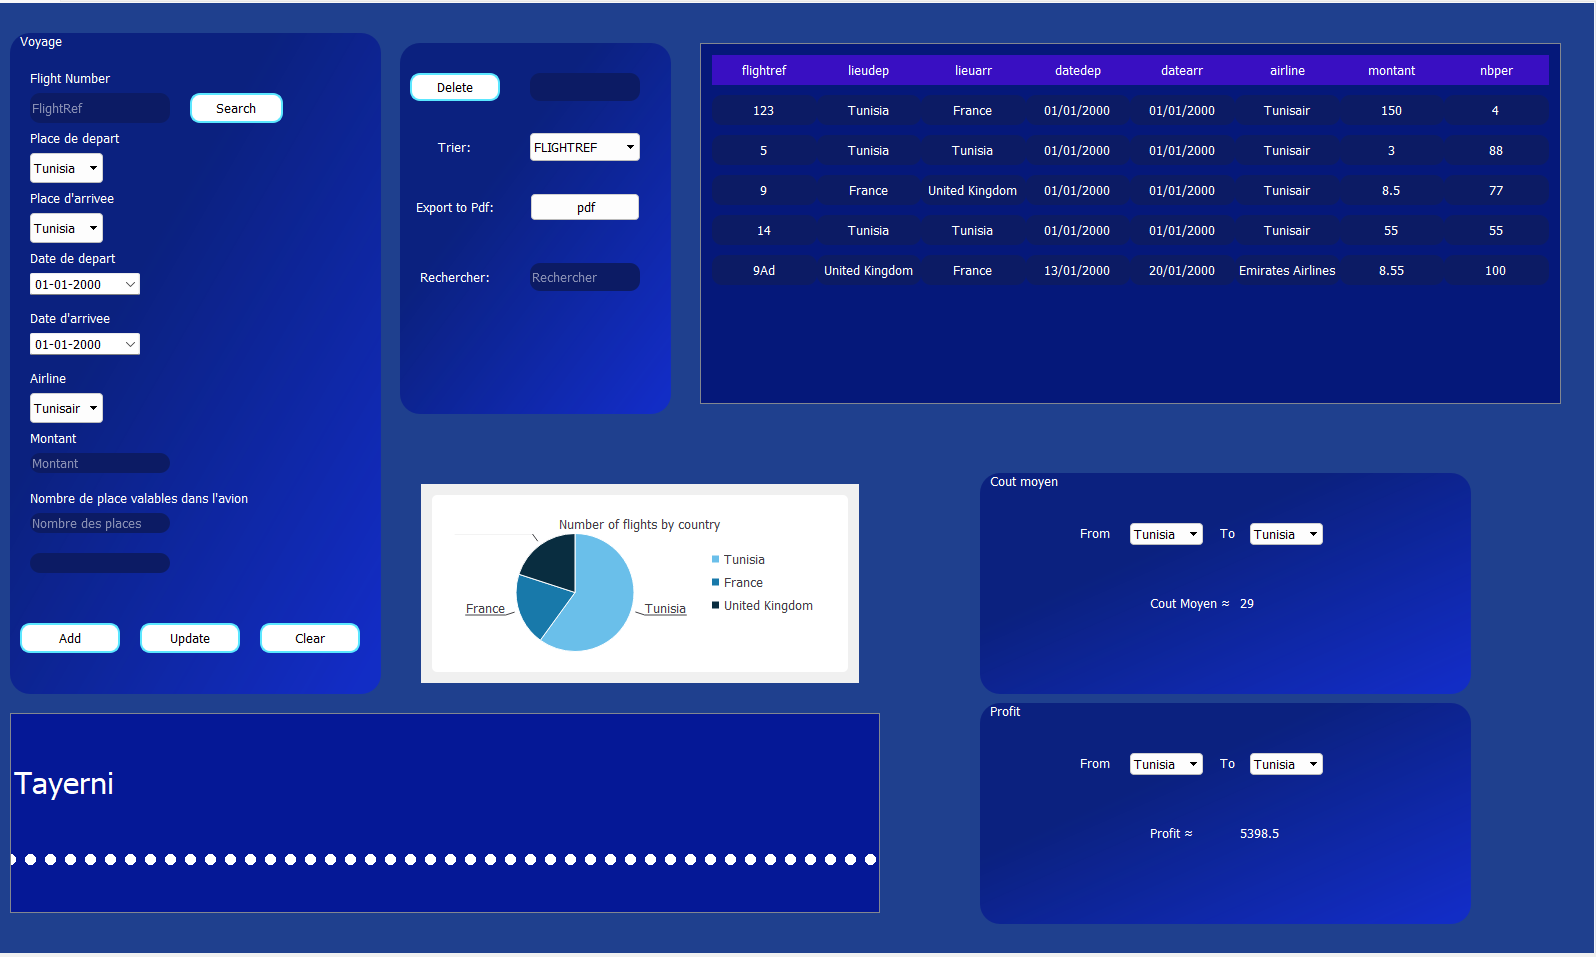
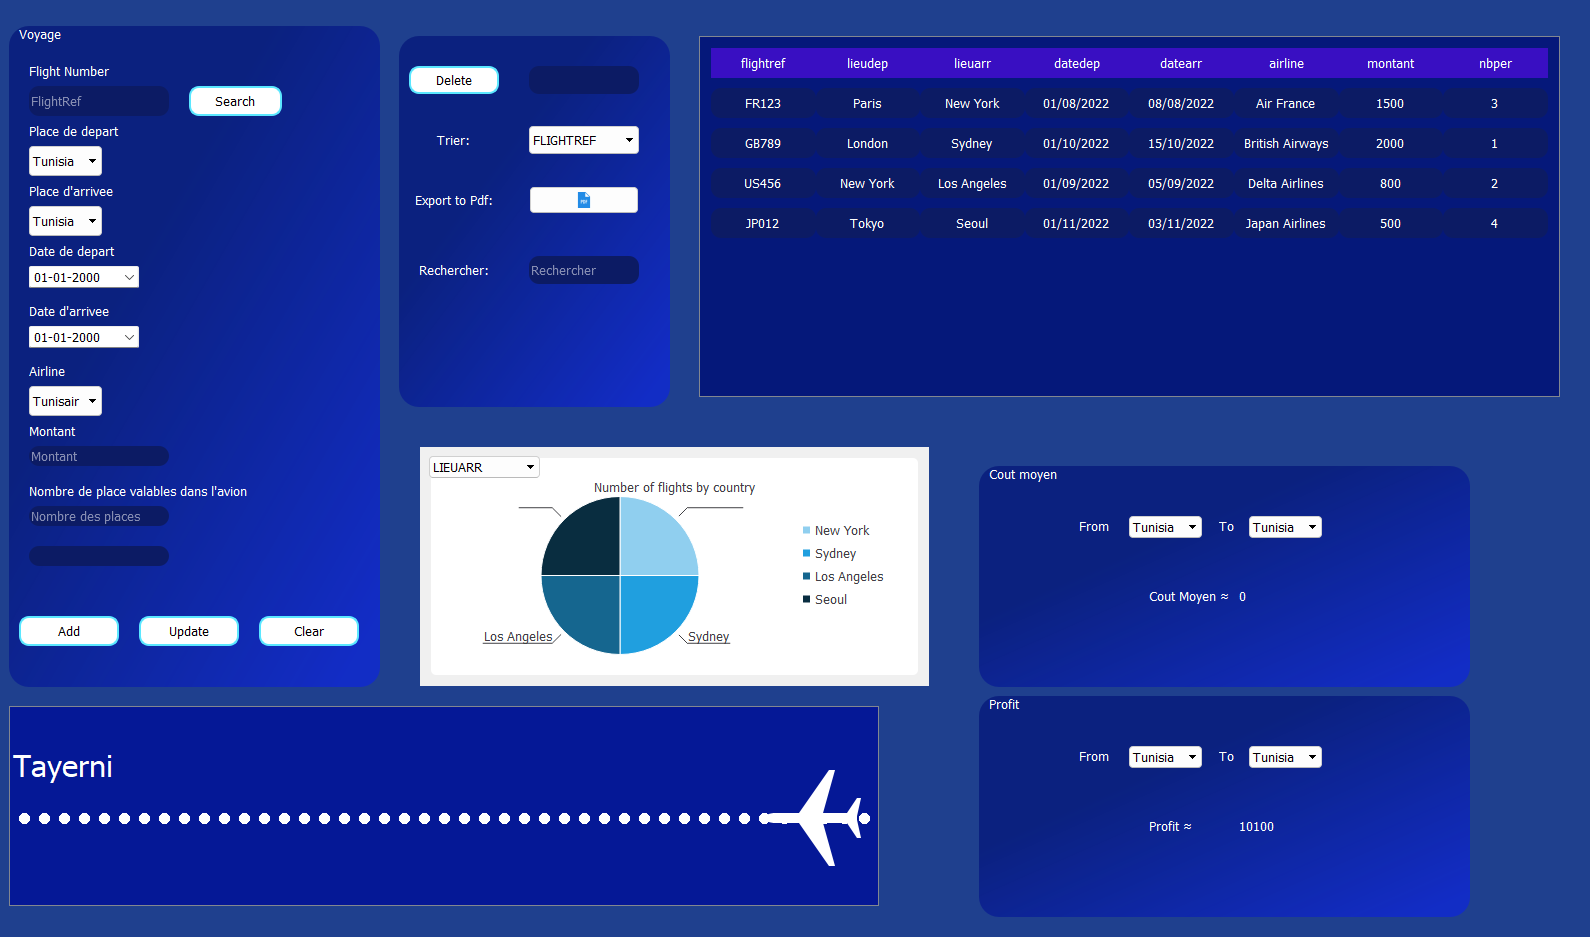
fix graphics Scene and add comboBox for multi-chart

diff --git a/mainwindow.cpp b/mainwindow.cpp
@@ -19,12 +19,12 @@ MainWindow::MainWindow(QWidget *parent)
     }
     QObject::connect(A.getserial(), SIGNAL(readyRead()), this, SLOT(update_label())); // Launch serial communication
 
-    table();    // Initialize table
-    style();    // Set style
-    controle(); // Control input
-    charts();   // Initialize charts
-    profit();   // Calculate profit
-    graphics(); // Set graphics
+    table();                                   // Initialize table
+    style();                                   // Set style
+    controle();                                // Control input
+    charts(ui->comboBox_chart->currentText()); // Initialize charts
+    profit();                                  // Calculate profit
+    graphics();                                // Set graphics
     //---------------initialisation de place de TabWidget------------------------------
     ui->tabWidget->setGeometry(QRect(0, 0, 1600, 1000));
     //---------------setting PushButton initialization color------------------------------
@@ -50,12 +50,13 @@ MainWindow::MainWindow(QWidget *parent)
             lineargradx = 1;
             lineargrady = 1;
         } });
-    connect(ui->lineEdit_rechercher, &QLineEdit::textChanged, [=](const QString &text) {
-        table("search", text);
-    });
-    connect(ui->comboBox_sort, &QComboBox::currentTextChanged, [=](const QString &text) {
-        table("sort", text);
-    });
+    connect(ui->lineEdit_rechercher, &QLineEdit::textChanged, [=](const QString &text)
+            { table("search", text); });
+    connect(ui->comboBox_sort, &QComboBox::currentTextChanged, [=](const QString &text)
+            { table("sort", text); });
+    connect(ui->comboBox_chart, &QComboBox::currentTextChanged, [=](const QString &text)
+            { charts(text); });
+
     timer->start(1000);
 }
 
@@ -81,7 +82,7 @@ void MainWindow::on_pushButton_ajouter_clicked()
     {
         profit();
         table();
-        charts();
+        charts(ui->comboBox_chart->currentText());
         QMessageBox::information(nullptr, QObject::tr("OK"), QObject::tr("Ajout effectué.\nClick Cancel to exit."), QMessageBox::Cancel);
     }
     else
@@ -97,7 +98,7 @@ void MainWindow::on_pushButton_delete_clicked()
     {
         profit();
         table();
-        charts();
+        charts(ui->comboBox_chart->currentText());
         QMessageBox::information(nullptr, QObject::tr("OK"), QObject::tr("Suppression effectué.\nClick Cancel to exit."), QMessageBox::Cancel);
     }
     else
@@ -121,7 +122,7 @@ void MainWindow::on_pushButton_update_clicked()
     if (test)
     {
         profit();
-        charts();
+        charts(ui->comboBox_chart->currentText());
         table();
         QMessageBox::information(nullptr, QObject::tr("OK"), QObject::tr("update effectué.\nClick Cancel to exit."), QMessageBox::Cancel);
     }
@@ -234,19 +235,19 @@ void MainWindow::on_pushButton_3_clicked()
 }
 
 // Generate a pie chart of voyages by departure location
-void MainWindow::charts()
+void MainWindow::charts(QString type)
 {
     qDeleteAll(ui->widget->findChildren<QWidget *>(QString(), Qt::FindDirectChildrenOnly));
-
-    QPieSeries *series = new QPieSeries();
-    series->append("Tunisia", voy.getVoyageCount("LIEUDEP", "Tunisia"));
-    series->append("France", voy.getVoyageCount("LIEUDEP", "France"));
-    series->append("United Kingdom", voy.getVoyageCount("LIEUDEP", "United Kingdom"));
-    series->setLabelsVisible();
-    series->setPieSize(300);
+    QList<QString> labels;
+    QPieSeries *seriesDep = new QPieSeries();
+    QList<int> numbers = voy.getVoyageCount(type, labels);
+    for (int i = 0; i < numbers.size(); i++)
+        seriesDep->append(labels[i], numbers[i]);
+    seriesDep->setLabelsVisible();
+    seriesDep->setPieSize(300);
 
     QChart *chart = new QChart();
-    chart->addSeries(series);
+    chart->addSeries(seriesDep);
     chart->setTitle("Number of flights by country");
     chart->legend()->setVisible(true);
     chart->legend()->setAlignment(Qt::AlignRight);
@@ -258,6 +259,7 @@ void MainWindow::charts()
     QHBoxLayout *layout = new QHBoxLayout();
     layout->addWidget(chartView);
     ui->widget->setLayout(layout);
+    ui->widget->layout()->deleteLater();
 }
 
 // Apply custom styles to the UI
@@ -312,7 +314,7 @@ QList<QLabel *> MainWindow::createHeadBar()
 }
 
 // Populate the table in the UI with data from the database
-void MainWindow::table(QString type,QString text)
+void MainWindow::table(QString type, QString text)
 {
     QList<Voyage> voyages = {};
 
@@ -324,7 +326,6 @@ void MainWindow::table(QString type,QString text)
         voyages = voy.searchVoyages(text);
 
     int rowHeight = 30;
-    int columnWidth = 120;
 
     qDeleteAll(ui->scrollAreaWidgetContents->findChildren<QWidget *>(QString(), Qt::FindDirectChildrenOnly));
     QGridLayout *layout = new QGridLayout();
@@ -361,7 +362,7 @@ void MainWindow::table(QString type,QString text)
 
             layout->addWidget(lineEdit, i + 1, j);
 
-            if (j == 7)
+            /*if (j == 7)
             {
                 QPushButton *deleteButton = new QPushButton("Delete");
                 deleteButton->setStyleSheet("QPushButton {"
@@ -380,7 +381,7 @@ void MainWindow::table(QString type,QString text)
                         voyageData[0];
                         table(); });
                 layout->addWidget(deleteButton, i + 1, j + 1);
-            }
+            }*/
         }
     }
 
@@ -443,38 +444,46 @@ void MainWindow::update_label()
 }
 
 // This function creates a graphics scene and adds a plane and circles to it, then animates the plane's movement
+
 void MainWindow::graphics()
 {
-    QGraphicsScene *scene;
-    QGraphicsTextItem *text;
-    QGraphicsPixmapItem *pixmap;
-    QGraphicsEllipseItem *circle[50];
-    scene = new QGraphicsScene(this);
+    // Create a new graphics scene and set it as the scene for the graphics view
+    QGraphicsScene *scene = new QGraphicsScene(this);
     ui->graphicsView->setScene(scene);
+
+    // Set the background color of the scene
     scene->setBackgroundBrush(QBrush(QColor(5, 24, 150)));
-    pixmap = scene->addPixmap(QPixmap("C:\\Users\\aliam\\OneDrive\\Images\\f1.png"));
-    pixmap->setPos(100, 0);
+
+    // Add a pixmap item to the scene and set its position and opacity
+    QGraphicsPixmapItem *plane = scene->addPixmap(QPixmap(":/plane.png").scaled(100, 100, Qt::KeepAspectRatio, Qt::SmoothTransformation).transformed(QTransform().rotate(180)));
+    plane->setPos(220, 5);
+    plane->setOpacity(1);
+
+    // Add 50 circle items to the scene and set their positions
+    QGraphicsEllipseItem *circles[50];
     int x = 10;
     for (int i = 0; i < 50; i++)
     {
-        circle[i] = scene->addEllipse(-520, 0, 10, 10, QPen(Qt::white), Qt::white);
-        circle[i]->setPos(QPoint(-10 - x, ui->graphicsView->geometry().height() / 2 - 6));
+        circles[i] = scene->addEllipse(0, 0, 10, 10, QPen(Qt::white), Qt::white);
+        circles[i]->setPos(QPoint(-ui->graphicsView->geometry().width() / 2 - x, ui->graphicsView->geometry().height() / 2 - 50));
         x -= 20;
     }
-    text = scene->addText("Tayerni", QFont("Outfit", 18));
-    text->setDefaultTextColor(QColor(255, 255, 255));
-    text->setPos(QPoint(-ui->graphicsView->geometry().width() / 2, 0));
 
-    QTimer *t = new QTimer();
-    connect(t, &QTimer::timeout, [=]()
+    // Add a text item to the scene and set its position and font
+    QGraphicsTextItem *text = scene->addText("Tayerni", QFont("Outfit", 18));
+    text->setDefaultTextColor(QColor(255, 255, 255));
+    text->setPos(QPoint(-ui->graphicsView->geometry().width() / 2, -20));
+
+    // Create a timer that animates the plane item across the scene
+    QTimer *timer = new QTimer(this);
+    connect(timer, &QTimer::timeout, [=]()
             {
-                    QTimeLine *timer = new QTimeLine(5000);
-                    QGraphicsItemAnimation *animation_plane = new QGraphicsItemAnimation();
-                        animation_plane->setItem(pixmap);
-                        animation_plane->setTimeLine(timer);
-                        animation_plane->setTranslationAt(0,100,0);
-                        animation_plane->setTranslationAt(0.5,-800,00);
-                        animation_plane->setTranslationAt(1,100,0);
-                        timer->start(); });
-    t->start(5000);
+        QTimeLine *timeLine = new QTimeLine(5000);
+        QGraphicsItemAnimation *animation = new QGraphicsItemAnimation();
+        animation->setItem(plane);
+        animation->setTimeLine(timeLine);
+        animation->setTranslationAt(0, 220, 0);
+        animation->setTranslationAt(1, -800, 0); // Only move the plane in one direction
+        timeLine->start(); });
+    timer->start(5000);
 }

diff --git a/gestionVoyages/voyage.cpp b/gestionVoyages/voyage.cpp
@@ -185,13 +185,26 @@ QList<Voyage> Voyage::searchVoyages(QString recher)
     return Q;
 }
 
-int Voyage::getVoyageCount(QString s, QString condition)
+QList<int> Voyage::getVoyageCount(QString s,QList<QString>& v)
 {
-    QSqlQuery query;
-    query.prepare("SELECT COUNT(" + s + ") FROM VOYAGES WHERE " + s + " = :condition");
-    query.bindValue(":condition", condition);
+    QList<int> chartData;
+    QSqlQuery query, query1;
+    QString condition = "";
+    query.prepare("SELECT " + s + "  FROM VOYAGES");
     query.exec();
-    return query.first() ? query.value(0).toInt() : 0;
+    while(query.next())
+    {
+        qDebug() << query.value(0).toString();
+        condition = query.value(0).toString();
+        v.append(condition);
+        query1.prepare("SELECT COUNT(" + s + ")  FROM VOYAGES WHERE " + s + " = :condition");
+        query1.bindValue(":condition", condition);
+        query1.exec();
+        query1.first();
+        chartData.append(query1.value(0).toInt());
+    }
+    qDebug() << chartData;
+    return chartData;
 }
 
 /*

diff --git a/mainwindow.h b/mainwindow.h
@@ -12,6 +12,7 @@
 #include <QLineSeries>
 #include <QPieSeries>
 #include <QPieSlice>
+#include <QGraphicsColorizeEffect>
 
 #include "assets/files/mybutton.h"
 #include "gestionVoyages/voyage.h"
@@ -32,7 +33,7 @@ public:
     MainWindow(QWidget *parent = nullptr);
     ~MainWindow();
 
-    void charts();
+    void charts(QString type = "");
     void style();
     void controle();
     QList<QLabel *> createHeadBar();

diff --git a/gestionVoyages/voyage.h b/gestionVoyages/voyage.h
@@ -56,7 +56,7 @@ public:
     QList<Voyage> getAllVoyages();
     QList<Voyage> searchVoyages(QString recher);
     QList<Voyage> getAllVoyagesSorted(QString order);
-    int getVoyageCount(QString s, QString condition);
+    QList<int> getVoyageCount(QString s,QList<QString>& v);
     float calculateAverageCost(QString Sdep, QString Sarr);
 };
 
